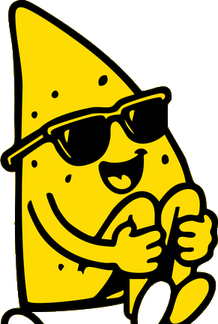
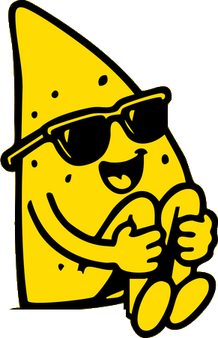
Loader: whole chip feet, closed splash shapes, smaller scene

diff --git a/index.html b/index.html
@@ -185,7 +185,7 @@
     --u: calc(100cqw / 1200);
     container-type: inline-size;
     position: relative;
-    width: min(440px, 80vw);
+    width: min(300px, 62vw);
     aspect-ratio: 1200 / 825;
   }
   .loader-scene > * { position: absolute; }
